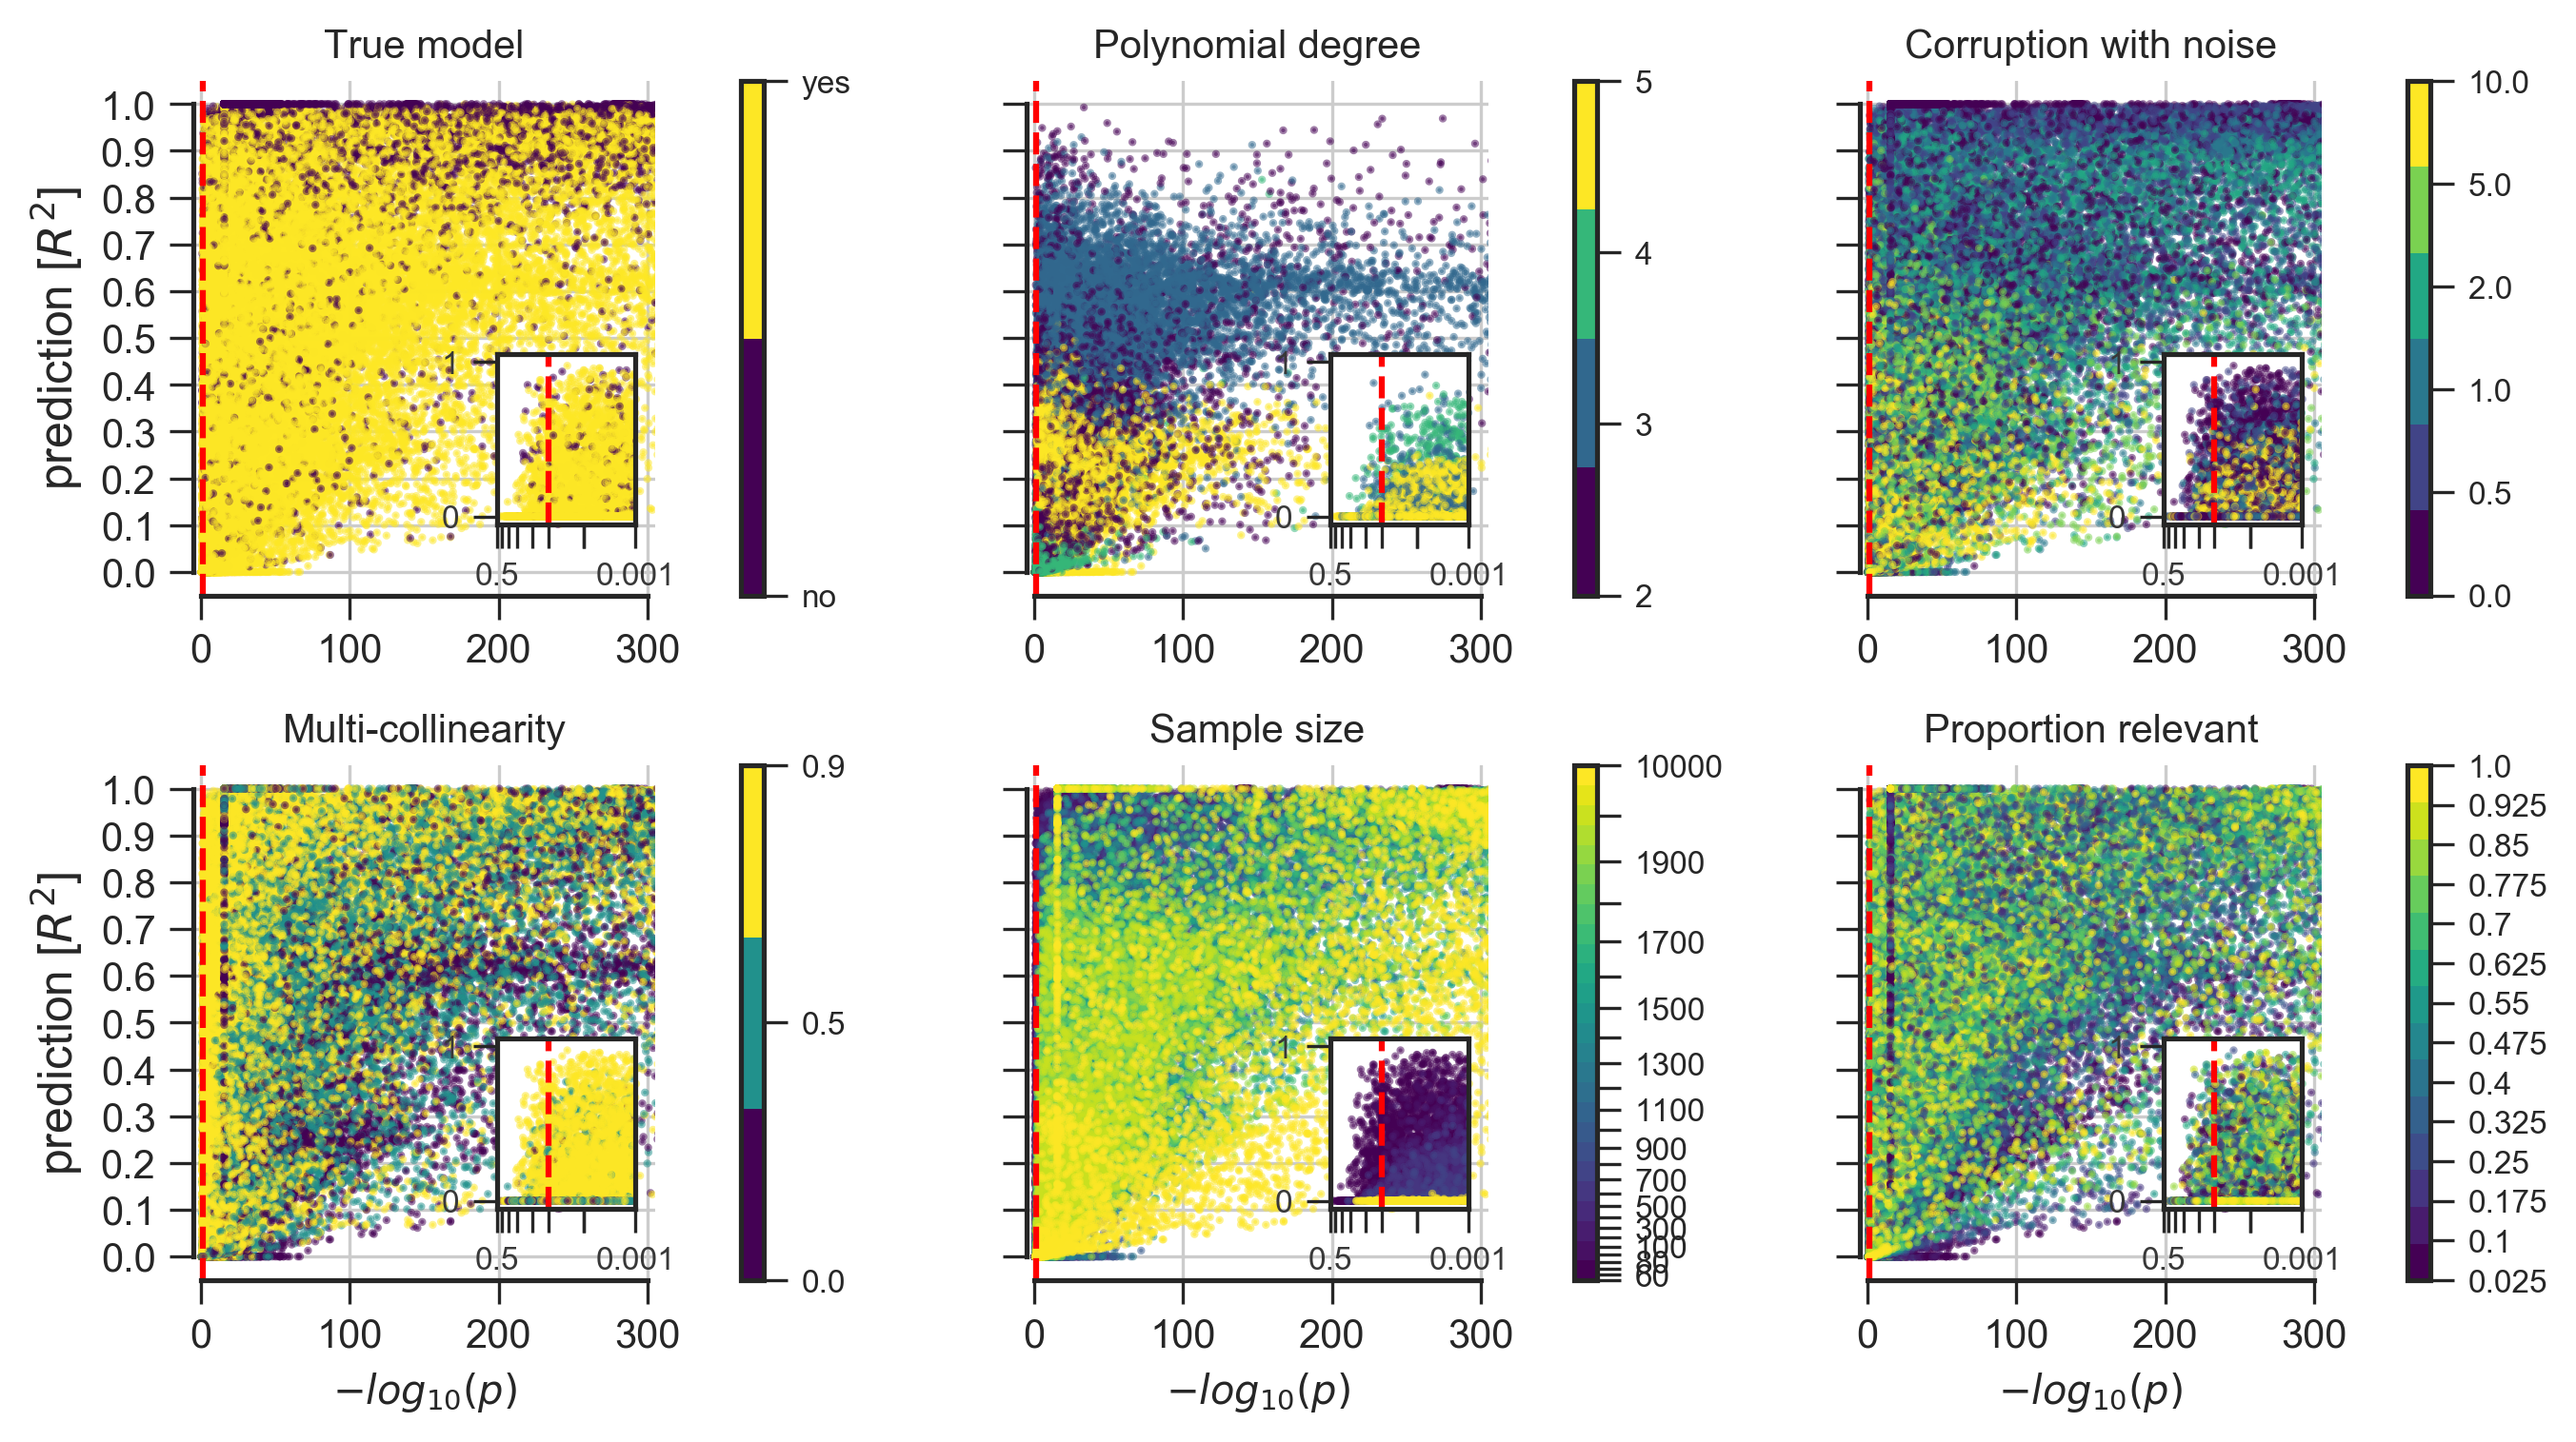
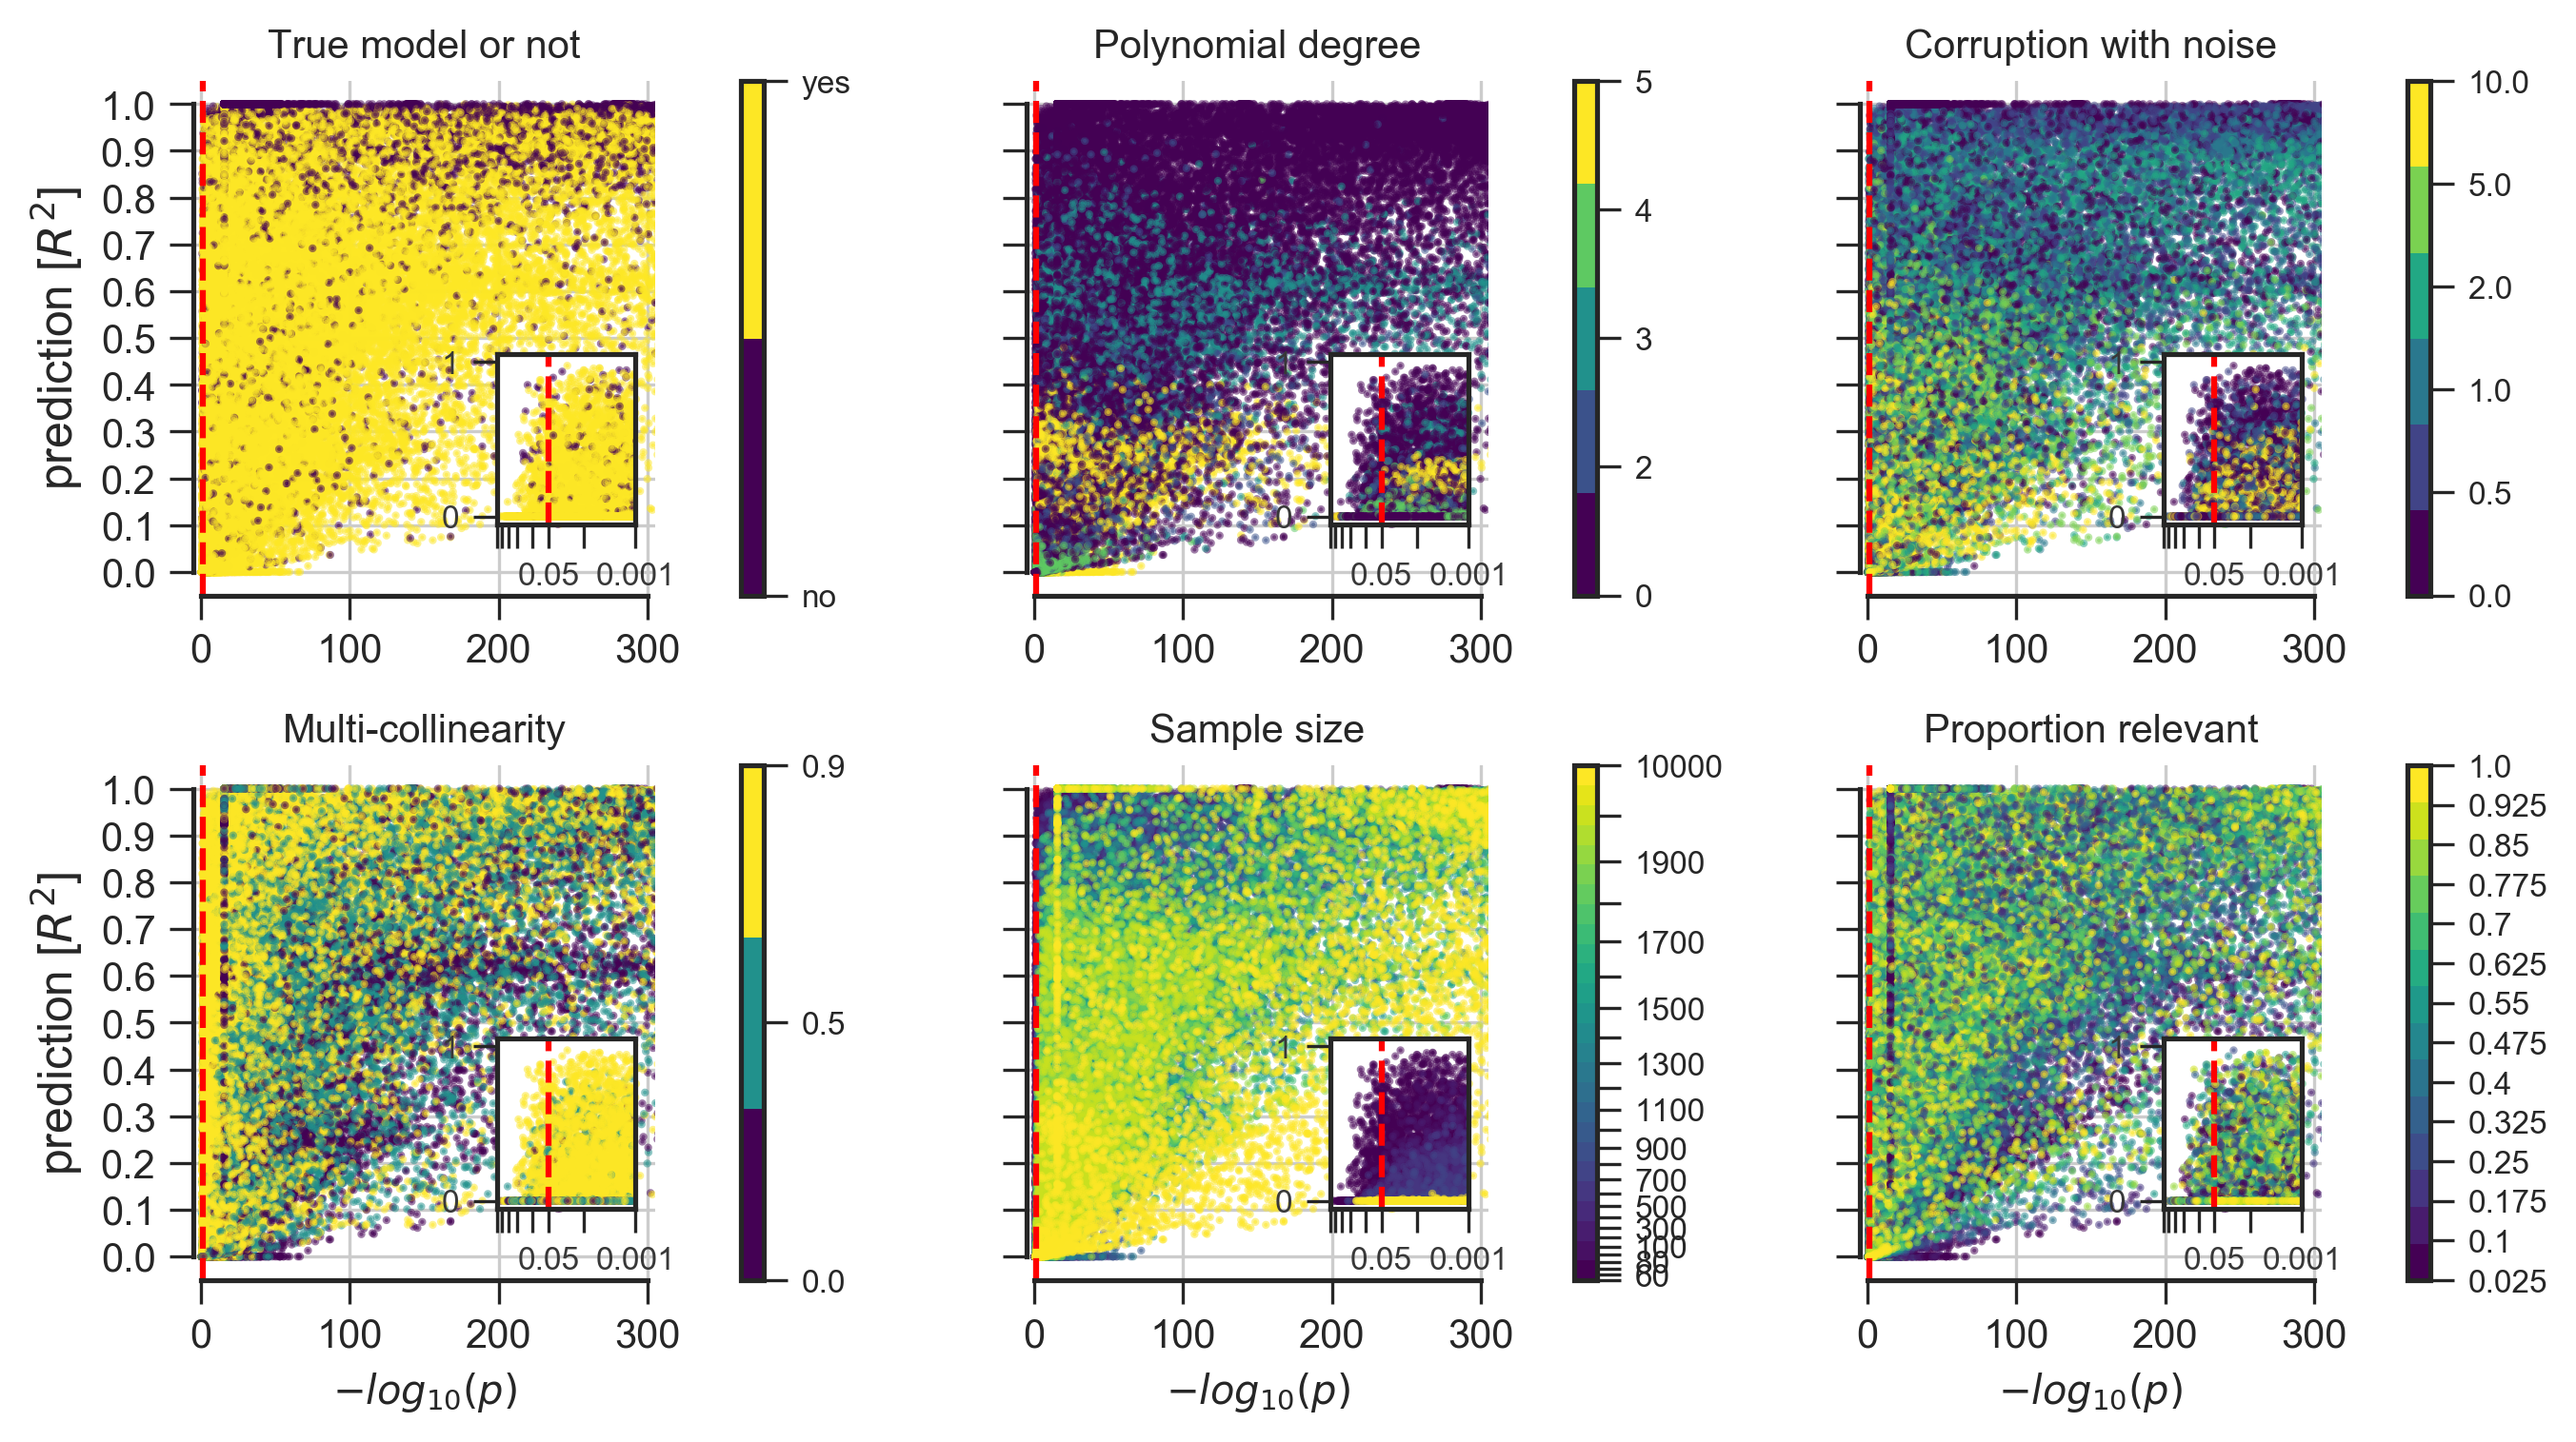
improve fig sim3

diff --git a/plot_fig_sim3.py b/plot_fig_sim3.py
@@ -28,7 +28,7 @@ sns.set_style('ticks')
 plt.close('all')
 
 titles = [
-    'True model',
+    'True model or not',
     'Polynomial degree',
     'Corruption with noise',
     'Multi-collinearity',
@@ -47,7 +47,8 @@ cases = [
 
 data_index = {
     'model': np.arange(len(df)),
-    'poly': df.model_violation.str.contains('\^').values,
+    # 'poly': df.model_violation.str.contains('\^').values,
+    'poly': np.arange(len(df)),
     'noise': np.arange(len(df)),
     'correlation': np.arange(len(df)),
     'sample size': np.arange(len(df)),
@@ -72,8 +73,8 @@ for i_case, case in enumerate(cases):
         cvals = (df.model_violation != 'None').values.astype(int)
     elif case == 'poly':
         cvals = np.array([
-            int(x.split('^')[-1]) for x in
-            df.model_violation.values[inds] if '^' in x])
+            int(x.split('^')[-1]) if '^' in x else 0 for x in
+            df.model_violation.values[inds]])
     elif case == 'noise':
         cvals = df.noise.values
     elif case == 'correlation':
@@ -126,9 +127,9 @@ for i_case, case in enumerate(cases):
         [ll if ii % 2 else '' for ii, ll in enumerate(unique_vals)])
     if case == 'model':
         cb.set_ticklabels(['no', 'yes'])
-    
+
     cax.tick_params(labelsize=8)
-    
+
     ax.set_xlim(-5, 305)
     ax.set_xticks([0, 100, 200, 300])
 
@@ -154,14 +155,15 @@ for i_case, case in enumerate(cases):
                             alpha=0.5)
     ax_inset.set_xlim(*-np.log10([0.5, 0.001]))
     ax_inset.set_xticks(
-        -np.log10([0.5, 0.4, 0.3, 0.2, 0.1, 0.05, 0.01, 0.01, 0.001]))
+        -np.log10([0.5, 0.4, 0.3, 0.2, 0.1, 0.05, 0.01, 0.001]))
+    ax_inset.set_xticklabels(
+        ['', '', '', '', '', 0.05, '', 0.001],
+        color='#383838')
+
     ax_inset.set_ylim(-0.05, 1.05)
     ax_inset.axvline(
         -np.log10(0.05), color='red', linestyle='--')
     pvals_orig = (10 ** (-1 * ax_inset.get_xticks())).round(3)
-    ax_inset.set_xticklabels([
-        str(ll) if ii in [0, len(pvals_orig) - 1]
-        else '' for ii, ll in enumerate(pvals_orig)], color='#383838')
     ax_inset.set_yticklabels(['', 0, 1, ''], color='#383838')
     sns.despine(trim=True, ax=ax)
     ax_inset.tick_params(labelsize=8)
